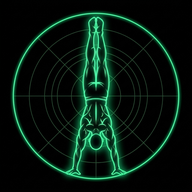
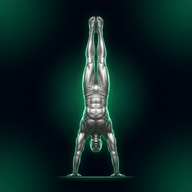
feat: novo icone 3d full-bleed, titulo ferramentas padronizado e remocao badge redundante em metas (v116)

diff --git a/jean.html b/jean.html
@@ -1084,7 +1084,7 @@
     }
     .metas-drawer-header {
       display: flex;
-      justify-content: space-between;
+      justify-content: flex-end;
       align-items: center;
       margin-bottom: 8px;
     }
@@ -1121,9 +1121,9 @@
 
     /* Seção de Ferramentas */
     .tools-container-wrap {
-      margin-top: 10px;
-      border-top: 1px solid rgba(255, 255, 255, 0.08);
-      padding-top: 8px;
+      margin-top: 0;
+      border-top: none;
+      padding-top: 0;
     }
     .tools-section-title {
       font-size: 0.66rem;
@@ -2846,7 +2846,6 @@
       <!-- Drawer Retrátil de Metas do Ciclo -->
       <div id="metasDrawer" class="metas-drawer" style="display: none;">
         <div class="metas-drawer-header">
-          <span class="metas-drawer-badge">🎯 Metas do Ciclo Atual</span>
           <span class="metas-drawer-close" onclick="toggleMetasDrawer()">✕</span>
         </div>
         <div class="metas-chips-list">
@@ -2932,7 +2931,7 @@
     <!-- HERO: FEEDBACK TÉCNICO & ANÁLISE CINEMÁTICA -->
     <div class="analysis-hero-card">
       <div class="analysis-hero-img-wrap" onclick="window.open('Midia/gui_analisando_handstand.jpg', '_blank')" style="cursor: pointer;" title="Toque para ampliar foto">
-        <img src="Midia/gui_analise_blend.jpg" onerror="this.onerror=null; this.src='Midia/gui_foto.jpg';" alt="Prof. Gui Lemos analisando movimento">
+        <img src="Midia/gui_analise_blend.jpg" alt="Prof. Gui Lemos analisando movimento">
       </div>
       <div class="analysis-hero-body">
         <div class="analysis-hero-tag">
@@ -3471,13 +3470,13 @@
 
   <script>
     // Limpeza forçada de caches legados para garantir que novidades apareçam imediatamente
-    const APP_BUILD_VERSION = '112';
+    const APP_BUILD_VERSION = '116';
     if (localStorage.getItem('dominio_jean_build_ver') !== APP_BUILD_VERSION) {
       localStorage.setItem('dominio_jean_build_ver', APP_BUILD_VERSION);
       if ('caches' in window) {
         caches.keys().then((keys) => {
           keys.forEach((k) => {
-            if (k !== 'dominio-corporal-v112') caches.delete(k);
+            if (k !== 'dominio-alunos-v112') caches.delete(k);
           });
         });
       }
@@ -4663,28 +4662,26 @@
     let bioModalOpenTime = 0;
 
     function openBioModal(e) {
-      if (e) {
-        if (typeof e.stopPropagation === 'function') e.stopPropagation();
-        if (typeof e.preventDefault === 'function') e.preventDefault();
-      }
-      if (document.body.classList.contains('in-dedicated-view')) return;
-      const m = document.getElementById('bioModal');
-      if (m) {
-        bioModalOpenTime = Date.now();
-        m.style.setProperty('display', 'flex', 'important');
-        m.classList.add('active');
-      }
-    }
-
-    function closeBioModal(e, force = false) {
-      if (!force && (Date.now() - bioModalOpenTime < 450)) return;
       if (e && typeof e.stopPropagation === 'function') {
         e.stopPropagation();
       }
       const m = document.getElementById('bioModal');
       if (m) {
-        m.style.setProperty('display', 'none', 'important');
+        bioModalOpenTime = Date.now();
+        m.classList.add('active');
+        m.style.display = 'flex';
+      }
+    }
+
+    function closeBioModal(e, force = false) {
+      if (!force && (Date.now() - bioModalOpenTime < 650)) return;
+      if (e && typeof e.stopPropagation === 'function') {
+        e.stopPropagation();
+      }
+      const m = document.getElementById('bioModal');
+      if (m) {
         m.classList.remove('active');
+        m.style.display = 'none';
       }
     }
 
@@ -4838,7 +4835,7 @@
     // Registra Service Worker (PWA Offline)
     if ('serviceWorker' in navigator) {
       window.addEventListener('load', () => {
-        navigator.serviceWorker.register('sw.js?v=112').then((reg) => {
+        navigator.serviceWorker.register('sw.js?v=116').then((reg) => {
           reg.update();
         }).catch(err => console.log('SW falhou:', err));
       });

diff --git a/helenice.html b/helenice.html
@@ -1638,7 +1638,7 @@
     }
     .metas-drawer-header {
       display: flex;
-      justify-content: space-between;
+      justify-content: flex-end;
       align-items: center;
       margin-bottom: 8px;
     }
@@ -1675,9 +1675,9 @@
 
     /* Seção de Ferramentas */
     .tools-container-wrap {
-      margin-top: 10px;
-      border-top: 1px solid rgba(255, 255, 255, 0.08);
-      padding-top: 8px;
+      margin-top: 0;
+      border-top: none;
+      padding-top: 0;
     }
     .tools-section-title {
       font-size: 0.66rem;
@@ -4127,7 +4127,7 @@
     }
     .athlete-highlight-card .metas-drawer-header {
       display: flex;
-      justify-content: space-between;
+      justify-content: flex-end;
       align-items: center;
       margin-bottom: 8px;
     }
@@ -4233,7 +4233,6 @@
       <!-- Drawer Retrátil de Metas do Ciclo -->
       <div id="metasDrawer" class="metas-drawer" style="display: none;">
         <div class="metas-drawer-header">
-          <span class="metas-drawer-badge">🎯 Metas do Ciclo</span>
           <span class="metas-drawer-close" onclick="toggleMetasDrawer()">✕</span>
         </div>
         <div class="metas-chips-list">
@@ -4244,12 +4243,12 @@
       </div>
     </div>
 
-    <!-- Seção de Ferramentas Clean (Mantém Fundo Escuro Normal) -->
-    <div class="goals-overview-card tools-overview-card" id="goalsOverviewCard">
-      <!-- Seção de Ferramentas com Título em Caixa Alta -->
-      <div class="tools-container-wrap">
-        <div class="tools-section-title">FERRAMENTAS</div>
-        <div class="header-tools-bar" style="margin-top: 0; padding-top: 0;">
+    <!-- SEÇÃO DE FERRAMENTAS -->
+    <div class="training-hub-section tools-hub-section" id="goalsOverviewCard" style="margin-top: 14px; margin-bottom: 16px;">
+      <div class="training-section-header" style="margin-bottom: 8px;">
+        <h2 class="training-section-title">FERRAMENTAS</h2>
+      </div>
+      <div class="header-tools-bar" style="margin-top: 0; padding-top: 0;">
           <button class="tool-pill pill-timers" onclick="openDedicatedView('timers')" title="Abrir Timers de Treino">
             <svg viewBox="0 0 24 24"><path d="M15 1H9v2h6V1zm-4 13h2V8h-2v6zm8.03-6.61l1.42-1.42c-.43-.51-.9-.99-1.41-1.41l-1.42 1.42C16.07 4.74 14.12 4 12 4c-4.97 0-9 4.03-9 9s4.02 9 9 9 9-4.03 9-9c0-2.12-.74-4.07-1.97-5.61zM12 20c-3.87 0-7-3.13-7-7s3.13-7 7-7 7 3.13 7 7-3.13 7-7 7z"/></svg>
             <span>Timers</span>
@@ -4263,7 +4262,6 @@
             <span>Evolução</span>
           </button>
         </div>
-      </div>
     </div>
 
     <!-- SEÇÃO PRINCIPAL: TREINAMENTO (LISTA DE SESSÕES) -->
@@ -5610,7 +5608,7 @@
 
   <script>
     // Limpeza forçada de caches legados para garantir que novidades apareçam imediatamente
-    const APP_BUILD_VERSION = '115';
+    const APP_BUILD_VERSION = '116';
     if (localStorage.getItem('dominio_helenice_dominio_build_ver') !== APP_BUILD_VERSION) {
       localStorage.setItem('dominio_helenice_dominio_build_ver', APP_BUILD_VERSION);
       if ('caches' in window) {
@@ -7664,7 +7662,7 @@
     // Registra Service Worker (PWA Offline)
     if ('serviceWorker' in navigator) {
       window.addEventListener('load', () => {
-        navigator.serviceWorker.register('sw.js?v=115').then((reg) => {
+        navigator.serviceWorker.register('sw.js?v=116').then((reg) => {
           reg.update();
         }).catch(err => console.log('SW falhou:', err));
       });

diff --git a/index.html b/index.html
@@ -1639,7 +1639,7 @@
     }
     .metas-drawer-header {
       display: flex;
-      justify-content: space-between;
+      justify-content: flex-end;
       align-items: center;
       margin-bottom: 8px;
     }
@@ -1676,9 +1676,9 @@
 
     /* Seção de Ferramentas */
     .tools-container-wrap {
-      margin-top: 10px;
-      border-top: 1px solid rgba(255, 255, 255, 0.08);
-      padding-top: 8px;
+      margin-top: 0;
+      border-top: none;
+      padding-top: 0;
     }
     .tools-section-title {
       font-size: 0.66rem;
@@ -4148,7 +4148,7 @@
     }
     .athlete-highlight-card .metas-drawer-header {
       display: flex;
-      justify-content: space-between;
+      justify-content: flex-end;
       align-items: center;
       margin-bottom: 8px;
     }
@@ -4248,7 +4248,6 @@
       <!-- Drawer Retrátil de Metas do Ciclo -->
       <div id="metasDrawer" class="metas-drawer" style="display: none;">
         <div class="metas-drawer-header">
-          <span class="metas-drawer-badge">🎯 Tópicos do Ciclo Atual</span>
           <span class="metas-drawer-close" onclick="toggleMetasDrawer()">✕</span>
         </div>
         <div class="metas-chips-list">
@@ -4259,12 +4258,12 @@
       </div>
     </div>
 
-    <!-- Seção de Ferramentas Clean (Mantém Fundo Escuro Normal) -->
-    <div class="goals-overview-card tools-overview-card" id="goalsOverviewCard">
-      <!-- Seção de Ferramentas com Título em Caixa Alta -->
-      <div class="tools-container-wrap">
-        <div class="tools-section-title">FERRAMENTAS</div>
-        <div class="header-tools-bar" style="margin-top: 0; padding-top: 0;">
+    <!-- SEÇÃO DE FERRAMENTAS -->
+    <div class="training-hub-section tools-hub-section" id="goalsOverviewCard" style="margin-top: 14px; margin-bottom: 16px;">
+      <div class="training-section-header" style="margin-bottom: 8px;">
+        <h2 class="training-section-title">FERRAMENTAS</h2>
+      </div>
+      <div class="header-tools-bar" style="margin-top: 0; padding-top: 0;">
           <button class="tool-pill pill-timers" onclick="openDedicatedView('timers')" title="Abrir Timers de Treino">
             <svg viewBox="0 0 24 24"><path d="M15 1H9v2h6V1zm-4 13h2V8h-2v6zm8.03-6.61l1.42-1.42c-.43-.51-.9-.99-1.41-1.41l-1.42 1.42C16.07 4.74 14.12 4 12 4c-4.97 0-9 4.03-9 9s4.02 9 9 9 9-4.03 9-9c0-2.12-.74-4.07-1.97-5.61zM12 20c-3.87 0-7-3.13-7-7s3.13-7 7-7 7 3.13 7 7-3.13 7-7 7z"/></svg>
             <span>Timers</span>
@@ -4278,7 +4277,6 @@
             <span>Evolução</span>
           </button>
         </div>
-      </div>
     </div>
 
     <!-- SEÇÃO PRINCIPAL: TREINAMENTO (LISTA DE SESSÕES) -->
@@ -7824,7 +7822,7 @@
 
   <script>
     // Limpeza forçada de caches legados para garantir que novidades apareçam imediatamente
-    const APP_BUILD_VERSION = '115';
+    const APP_BUILD_VERSION = '116';
     if (localStorage.getItem('dominio_build_ver') !== APP_BUILD_VERSION) {
       localStorage.setItem('dominio_build_ver', APP_BUILD_VERSION);
       if ('caches' in window) {
@@ -9903,7 +9901,7 @@
     // Registra Service Worker (PWA Offline)
     if ('serviceWorker' in navigator) {
       window.addEventListener('load', () => {
-        navigator.serviceWorker.register('sw.js?v=115').then((reg) => {
+        navigator.serviceWorker.register('sw.js?v=116').then((reg) => {
           reg.update();
         }).catch(err => console.log('SW falhou:', err));
       });

diff --git a/treino.html b/treino.html
@@ -1639,7 +1639,7 @@
     }
     .metas-drawer-header {
       display: flex;
-      justify-content: space-between;
+      justify-content: flex-end;
       align-items: center;
       margin-bottom: 8px;
     }
@@ -1676,9 +1676,9 @@
 
     /* Seção de Ferramentas */
     .tools-container-wrap {
-      margin-top: 10px;
-      border-top: 1px solid rgba(255, 255, 255, 0.08);
-      padding-top: 8px;
+      margin-top: 0;
+      border-top: none;
+      padding-top: 0;
     }
     .tools-section-title {
       font-size: 0.66rem;
@@ -4148,7 +4148,7 @@
     }
     .athlete-highlight-card .metas-drawer-header {
       display: flex;
-      justify-content: space-between;
+      justify-content: flex-end;
       align-items: center;
       margin-bottom: 8px;
     }
@@ -4248,7 +4248,6 @@
       <!-- Drawer Retrátil de Metas do Ciclo -->
       <div id="metasDrawer" class="metas-drawer" style="display: none;">
         <div class="metas-drawer-header">
-          <span class="metas-drawer-badge">🎯 Tópicos do Ciclo Atual</span>
           <span class="metas-drawer-close" onclick="toggleMetasDrawer()">✕</span>
         </div>
         <div class="metas-chips-list">
@@ -4259,12 +4258,12 @@
       </div>
     </div>
 
-    <!-- Seção de Ferramentas Clean (Mantém Fundo Escuro Normal) -->
-    <div class="goals-overview-card tools-overview-card" id="goalsOverviewCard">
-      <!-- Seção de Ferramentas com Título em Caixa Alta -->
-      <div class="tools-container-wrap">
-        <div class="tools-section-title">FERRAMENTAS</div>
-        <div class="header-tools-bar" style="margin-top: 0; padding-top: 0;">
+    <!-- SEÇÃO DE FERRAMENTAS -->
+    <div class="training-hub-section tools-hub-section" id="goalsOverviewCard" style="margin-top: 14px; margin-bottom: 16px;">
+      <div class="training-section-header" style="margin-bottom: 8px;">
+        <h2 class="training-section-title">FERRAMENTAS</h2>
+      </div>
+      <div class="header-tools-bar" style="margin-top: 0; padding-top: 0;">
           <button class="tool-pill pill-timers" onclick="openDedicatedView('timers')" title="Abrir Timers de Treino">
             <svg viewBox="0 0 24 24"><path d="M15 1H9v2h6V1zm-4 13h2V8h-2v6zm8.03-6.61l1.42-1.42c-.43-.51-.9-.99-1.41-1.41l-1.42 1.42C16.07 4.74 14.12 4 12 4c-4.97 0-9 4.03-9 9s4.02 9 9 9 9-4.03 9-9c0-2.12-.74-4.07-1.97-5.61zM12 20c-3.87 0-7-3.13-7-7s3.13-7 7-7 7 3.13 7 7-3.13 7-7 7z"/></svg>
             <span>Timers</span>
@@ -4278,7 +4277,6 @@
             <span>Evolução</span>
           </button>
         </div>
-      </div>
     </div>
 
     <!-- SEÇÃO PRINCIPAL: TREINAMENTO (LISTA DE SESSÕES) -->
@@ -7824,7 +7822,7 @@
 
   <script>
     // Limpeza forçada de caches legados para garantir que novidades apareçam imediatamente
-    const APP_BUILD_VERSION = '115';
+    const APP_BUILD_VERSION = '116';
     if (localStorage.getItem('dominio_build_ver') !== APP_BUILD_VERSION) {
       localStorage.setItem('dominio_build_ver', APP_BUILD_VERSION);
       if ('caches' in window) {
@@ -9903,7 +9901,7 @@
     // Registra Service Worker (PWA Offline)
     if ('serviceWorker' in navigator) {
       window.addEventListener('load', () => {
-        navigator.serviceWorker.register('sw.js?v=115').then((reg) => {
+        navigator.serviceWorker.register('sw.js?v=116').then((reg) => {
           reg.update();
         }).catch(err => console.log('SW falhou:', err));
       });

diff --git a/sw.js b/sw.js
@@ -1,4 +1,4 @@
-const CACHE_NAME = 'dominio-corporal-v115';
+const CACHE_NAME = 'dominio-corporal-v116';
 const ASSETS_TO_CACHE = [
   './',
   './index.html',
